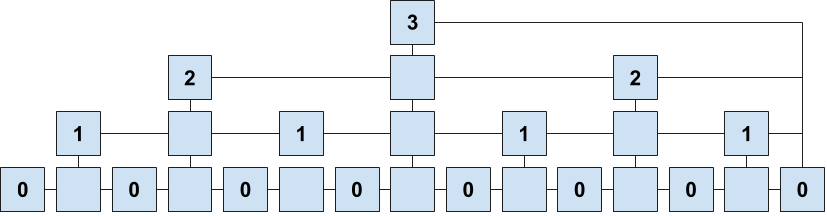
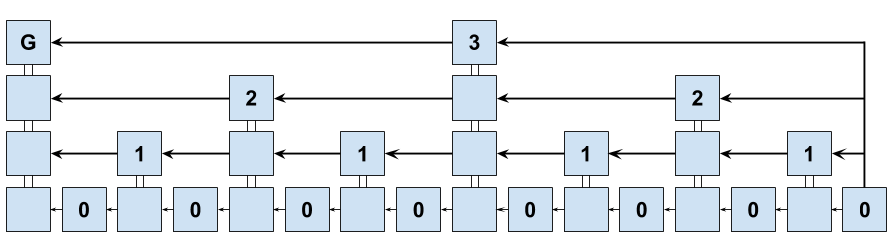
Update hierarchical ledgers image with new fig from paper

diff --git a/website/index.html b/website/index.html
@@ -126,7 +126,7 @@
         The average distribution of blocks is illustrated in the following figure. The bottom part shows the regular blockchain. Higher levels show blocks with 1, 2, or 3 extra zeroes in their hashes. Taking only these blocks, one can form a <strong>superchain</strong>.
       </p>
 
-      <img src='images/hierarchical-ledger.png' alt='The hierarchical blockchain' width='500' class='figure'/>
+      <img src='images/hierarchical-ledger.png' alt='The hierarchical blockchain' width='600' class='figure'/>
 
       <p>
         If these superblocks are presented in the form of a proof, each needs to include a pointer to its previous block. This is similar to how regular blocks include a <a href='https://bitcoin.org/en/developer-reference#term-previous-block-header-hash'>pointer to the previous block</a>. This connectivity is called <strong>interlinking</strong> and is the reason why a velvet fork is required.
